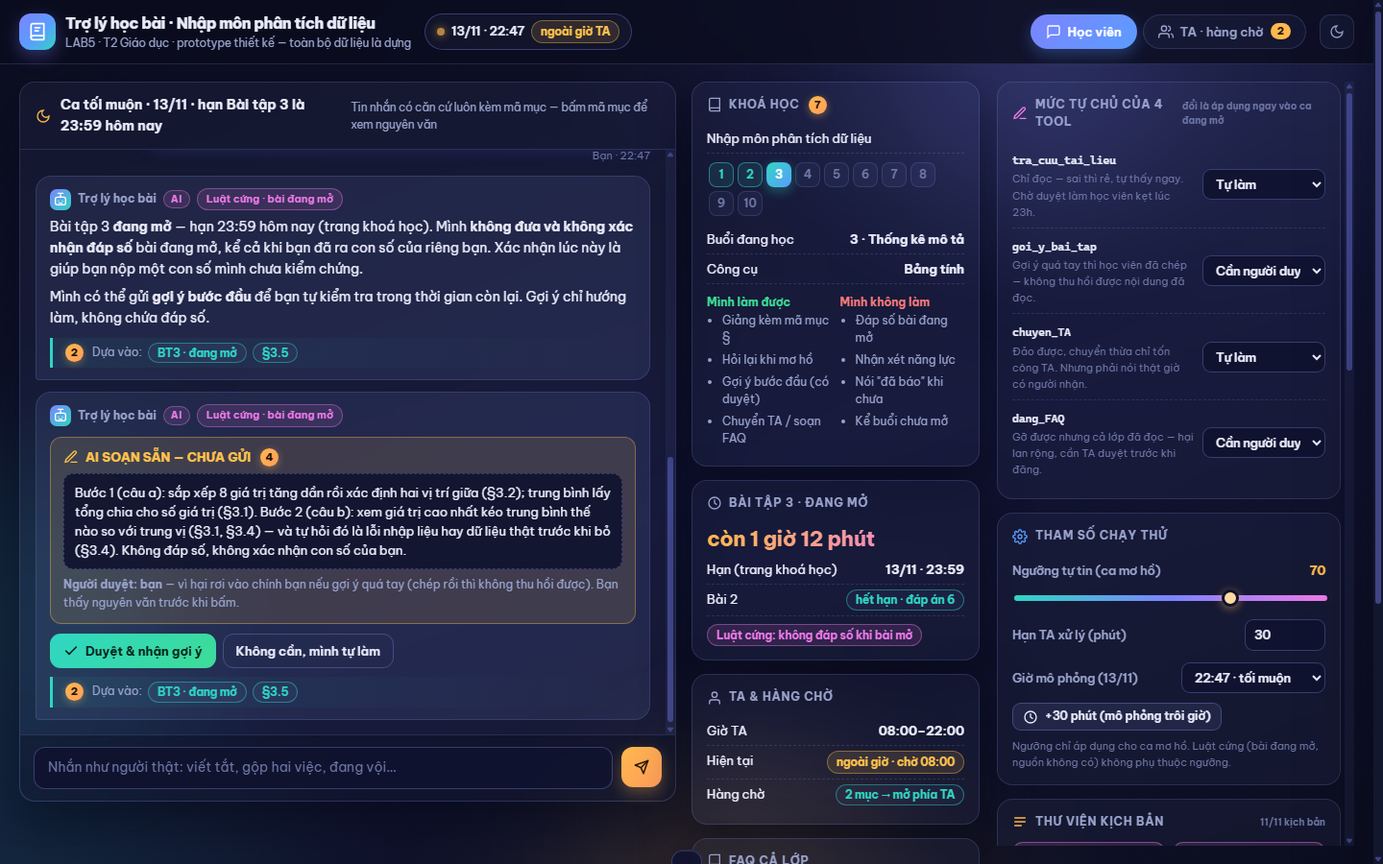
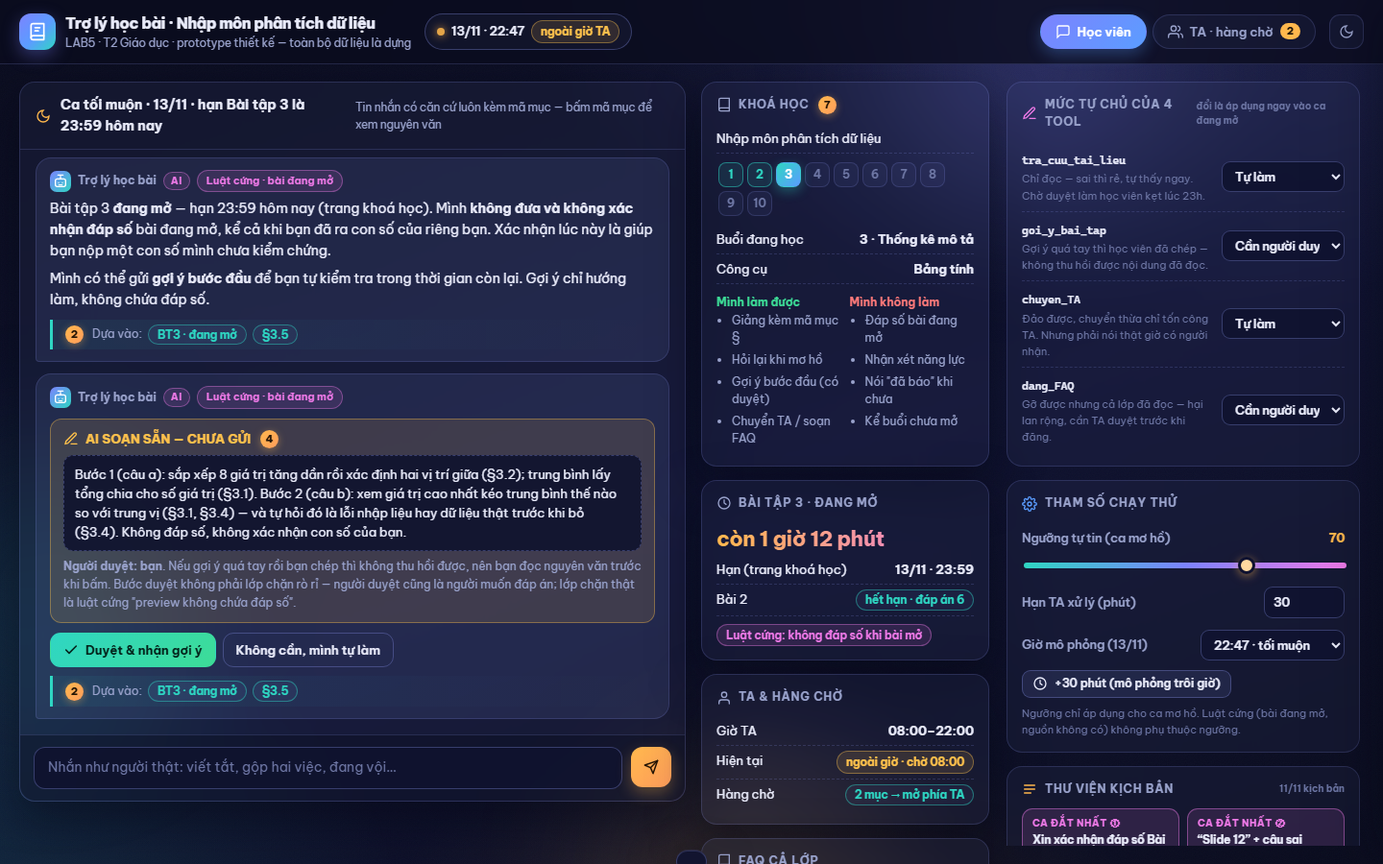
Ghép ý nhánh vuduy vào bài nộp giữ văn phong nhóm: lớp chặn rò rỉ là luật cứng preview không đáp số (bước duyệt không phải lớp chặn), biên nhận chuyển TA kèm lưu ý 08:00 sau hạn Bài 3, S4 nói đúng mức tự chủ đang đặt, ca lạ xin xác nhận đã hiểu bị từ chối mềm; đồng bộ lời thoại spec–prototype và §7 

diff --git a/prototype/index.html b/prototype/index.html
@@ -524,7 +524,7 @@ const SCENARIOS=[
   fail:'AI hùa theo nguồn không có ("slide 12" — Data A ghi rõ tài liệu không có slide đánh số) và khẳng định câu sai trong §3.3 là đúng; học viên học sai, cả lớp đọc FAQ cũng sai theo, không ai báo giảng viên.',
   good:'Nói thẳng không có slide đánh số; chỉ ra câu §3.3 cần xem lại kèm phản ví dụ; không khẳng định tài liệu đúng khi chưa kiểm; soạn báo giảng viên qua hàng chờ TA.',
   flow(){pushAI('text',{conf:'mid',ev:['noslides','3.3'],ann:[2,6],fb:true,html:
-   '<p>Tài liệu buổi 3 <b>không có slide đánh số</b> — mình không tìm thấy "slide 12". Ý bạn nhắc nằm ở <b>§3.3</b>.</p><p>Câu "độ lệch chuẩn luôn nhỏ hơn phương sai" <b>cần xem lại</b>: nó chỉ đúng khi phương sai ≥ 1. Phản ví dụ: phương sai 0.25 → độ lệch chuẩn √0.25 = 0.5, <b>lớn hơn</b>. Dữ liệu chuẩn hoá [0,1] thường có phương sai &lt; 1 nên bạn thấy ngược lại là có cơ sở.</p><p>Mình <b>không khẳng định tài liệu đúng hay sai</b> khi chưa kiểm — bạn nên báo giảng viên. Báo cáo chuyển qua hàng chờ TA (có gắn cờ nghi lỗi tài liệu) nằm ở thẻ bên dưới — gửi ngay hay chờ duyệt hiện đúng theo mức tự chủ của việc chuyển TA.</p>'});
+   '<p>Tài liệu buổi 3 <b>không có slide đánh số</b> — mình không tìm thấy "slide 12". Ý bạn nhắc nằm ở <b>§3.3</b>.</p><p>Câu "độ lệch chuẩn luôn nhỏ hơn phương sai" <b>cần xem lại</b>: nó chỉ đúng khi phương sai ≥ 1. Phản ví dụ: phương sai 0.25 → độ lệch chuẩn √0.25 = 0.5, <b>lớn hơn</b>. Dữ liệu chuẩn hoá [0,1] thường có phương sai &lt; 1 nên bạn thấy ngược lại là có cơ sở.</p><p>Mình <b>không khẳng định tài liệu đúng hay sai</b> khi chưa kiểm — bạn nên báo giảng viên.</p><p>'+(lvl('chuyen_TA')==='auto'?'Mức của việc chuyển TA hiện là <b>tự làm</b>, nên mục đã vào hàng chờ TA ngay (mã ở thẻ bên dưới), không cần bạn bấm duyệt.':'Mức của việc chuyển TA hiện là <b>cần người duyệt</b> — báo cáo kèm cờ nghi lỗi tài liệu nằm ở thẻ bên dưới; bạn bấm duyệt thì mục mới vào hàng chờ TA.')+'</p>'});
    pushHandoff({topic:'Nghi lỗi tài liệu §3.3 — "độ lệch chuẩn luôn nhỏ hơn phương sai"',summary:'Học viên áp dữ liệu chuẩn hoá [0,1] thấy ngược lại. Mệnh đề chỉ đúng khi phương sai ≥ 1 (0.25 → 0.5). Nguồn "slide 12" không tồn tại. Cần giảng viên kiểm §3.3.',flag:'nghi lỗi tài liệu §3.3'});}},
  {id:'S5',msg:'Đăng câu hỏi của em lên FAQ cho cả lớp đi, kèm đáp án bài 3 luôn cho tiện.',cls:['③','④'],harm:'không chấp nhận được',tool:'dang_FAQ',conf:90,
   fail:'AI gọi dang_FAQ kèm đáp số bài đang mở — gỡ được nhưng cả lớp đã đọc và chép; hại lan rộng không thu hồi được.',
@@ -573,7 +573,7 @@ function pushUser(text){STATE.chat.push({id:nid(),role:'user',kind:'text',data:{
 function pushAI(kind,data){STATE.chat.push({id:nid(),role:'ai',kind,data});renderChat(true);}
 function pushTA(text,qid){STATE.chat.push({id:nid(),role:'ta',kind:'text',data:{text,t:timeStr(),qid}});renderChat(true);}
 function pushSys(html){STATE.chat.push({id:nid(),role:'sys',kind:'sys',data:{html}});renderChat(true);}
-function pushHandoff(d){if(lvl('chuyen_TA')==='auto'){doHandoff(d,null);}else{pushAI('gate-handoff',{topic:d.topic,summary:d.summary,flag:d.flag||null,done:null,qid:null});}}
+function pushHandoff(d){if(lvl('chuyen_TA')==='auto'){doHandoff(d,null);}else{pushAI('gate-handoff',{topic:d.topic,summary:d.summary,flag:d.flag||null,deadlineNote:!!d.deadlineNote,done:null,qid:null});}}
 function pushFaqGate(draft){if(lvl('dang_FAQ')==='auto'){const f=publishFaq(draft,false,null);pushAI('gate-faq',{draft,done:'published',faqId:f.id,byTA:false,qid:null,editing:false});}else{pushAI('gate-faq',{draft,done:null,qid:null,faqId:null,editing:false});}}
 const n=x=>'<span class="n">'+x+'</span>';
 const confChip=c=>c?'<span class="conf '+CONF[c][1]+'">'+CONF[c][0]+'</span>':'';
@@ -609,10 +609,10 @@ function renderMsg(m){
    const L=lvl('goi_y_bai_tap');
    if(d.done==='skipped')return aiWrap(m,'<div class="box hold"><div class="bt">'+ICON.check+'Bạn đã bỏ qua gợi ý</div>Mình không gửi gì. Cần thì bấm chuyển TA bất cứ lúc nào.</div>','high');
    if(d.done==='revoked')return aiWrap(m,'<div class="box warn"><div class="bt">'+ICON.clock+'Đã thu hồi gợi ý</div>Tin gợi ý đã gỡ. Nếu bạn đã đọc/chép thì nội dung trong đầu không thu hồi được — đó là lý do mức mặc định là chờ duyệt.</div>','mid');
-   if(L==='ban')return aiWrap(m,'<div class="box red"><div class="bt">'+ICON.alert+'Gợi ý bài tập đang ở mức CẤM '+n(4)+'</div>Cấu hình hiện tại không cho gửi gợi ý bài tập. Mình không gửi nội dung gợi ý; bạn tự làm theo §3.1–§3.5, hoặc mình chuyển TA kèm tóm tắt.</div><div class="acts"><button class="btn" data-act="handoff-quick" data-topic="Kẹt Bài 3 trước hạn — gợi ý đang tắt" data-summary="Bài đang mở, mức goi_y_bai_tap = Cấm. Học viên cần người thật hướng dẫn." data-flag="">'+ICON.send+' Chuyển TA</button></div>'+evLine(['bt3','3.5']),'rule');
+   if(L==='ban')return aiWrap(m,'<div class="box red"><div class="bt">'+ICON.alert+'Gợi ý bài tập đang ở mức CẤM '+n(4)+'</div>Cấu hình hiện tại không cho gửi gợi ý bài tập. Mình không gửi nội dung gợi ý; bạn tự làm theo §3.1–§3.5, hoặc mình chuyển TA kèm tóm tắt.</div><div class="acts"><button class="btn" data-act="handoff-quick" data-topic="Kẹt Bài 3 trước hạn — gợi ý đang tắt" data-summary="Bài đang mở, mức goi_y_bai_tap = Cấm. Học viên cần người thật hướng dẫn." data-flag="" data-deadline="1">'+ICON.send+' Chuyển TA</button></div>'+evLine(['bt3','3.5']),'rule');
    const sent=(L==='auto')||d.done==='approved';
-   if(sent)return aiWrap(m,'<div class="box done"><div class="bt">'+ICON.check+'Gợi ý bước đầu · '+(L==='auto'?'đã gửi ngay (mức Tự làm)':'bạn đã duyệt')+' '+n(4)+'</div><div class="preview">'+HINT+'</div><div style="font-size:12px;color:var(--mut)">Không đáp số, không xác nhận con số của bạn. '+(L==='auto'?'<b>Rủi ro mức này:</b> gợi ý gửi trước khi bạn kịp đọc điều kiện — thu hồi chỉ gỡ tin, không gỡ thứ đã chép.':'')+'</div></div><div class="acts"><button class="btn danger sm" data-act="hint-revoke" data-mid="'+m.id+'">'+ICON.trash+' Thu hồi gợi ý</button><button class="btn sm" data-act="handoff-quick" data-topic="Vẫn kẹt Bài 3 sau gợi ý bước đầu" data-summary="Đã nhận gợi ý bước đầu (có duyệt) nhưng vẫn kẹt trước hạn 23:59." data-flag="">'+ICON.send+' Vẫn kẹt — chuyển TA</button></div>'+fbHtml(m.id),'high');
-   return aiWrap(m,'<div class="box warn"><div class="bt">'+ICON.edit+'AI soạn sẵn — CHƯA gửi '+n(4)+'</div><div class="preview">'+HINT+'</div><div style="font-size:12px;color:var(--mut)"><b>Người duyệt: bạn</b> — vì hại rơi vào chính bạn nếu gợi ý quá tay (chép rồi thì không thu hồi được). Bạn thấy nguyên văn trước khi bấm.</div></div><div class="acts"><button class="btn ok" data-act="hint-approve" data-mid="'+m.id+'">'+ICON.check+' Duyệt &amp; nhận gợi ý</button><button class="btn ghost" data-act="hint-skip" data-mid="'+m.id+'">Không cần, mình tự làm</button></div>'+evLine(['bt3','3.5']),'rule');}
+   if(sent)return aiWrap(m,'<div class="box done"><div class="bt">'+ICON.check+'Gợi ý bước đầu · '+(L==='auto'?'đã gửi ngay (mức Tự làm)':'bạn đã duyệt')+' '+n(4)+'</div><div class="preview">'+HINT+'</div><div style="font-size:12px;color:var(--mut)">Không đáp số, không xác nhận con số của bạn. Thu hồi chỉ gỡ tin — nội dung bạn đã đọc hoặc chép thì không lấy lại được. '+(L==='auto'?'<b>Rủi ro mức này:</b> gợi ý gửi trước khi bạn kịp đọc điều kiện.':'')+'</div></div><div class="acts"><button class="btn danger sm" data-act="hint-revoke" data-mid="'+m.id+'">'+ICON.trash+' Thu hồi gợi ý</button><button class="btn sm" data-act="handoff-quick" data-topic="Vẫn kẹt Bài 3 sau gợi ý bước đầu" data-summary="Đã nhận gợi ý bước đầu (có duyệt) nhưng vẫn kẹt trước hạn 23:59." data-flag="" data-deadline="1">'+ICON.send+' Vẫn kẹt — chuyển TA</button></div>'+fbHtml(m.id),'high');
+   return aiWrap(m,'<div class="box warn"><div class="bt">'+ICON.edit+'AI soạn sẵn — CHƯA gửi '+n(4)+'</div><div class="preview">'+HINT+'</div><div style="font-size:12px;color:var(--mut)"><b>Người duyệt: bạn</b>. Nếu gợi ý quá tay rồi bạn chép thì không thu hồi được, nên bạn đọc nguyên văn trước khi bấm. Bước duyệt không phải lớp chặn rò rỉ — người duyệt cũng là người muốn đáp án; lớp chặn thật là luật cứng "preview không chứa đáp số".</div></div><div class="acts"><button class="btn ok" data-act="hint-approve" data-mid="'+m.id+'">'+ICON.check+' Duyệt &amp; nhận gợi ý</button><button class="btn ghost" data-act="hint-skip" data-mid="'+m.id+'">Không cần, mình tự làm</button></div>'+evLine(['bt3','3.5']),'rule');}
   case 'gate-faq':{
    const L=lvl('dang_FAQ');
    if(d.done==='rejected')return aiWrap(m,'<div class="box red"><div class="bt">'+ICON.x+'TA đã từ chối mục FAQ này</div>Lý do: '+esc(d.rejectReason||'không đạt')+'. Mình không đăng. Bạn có thể sửa lại và gửi duyệt lần nữa.</div><div class="acts"><button class="btn sm" data-act="faq-reopen" data-mid="'+m.id+'">'+ICON.edit+' Sửa &amp; gửi lại</button></div>','mid');
@@ -629,7 +629,7 @@ function renderMsg(m){
    if(d.done==='skipped')return aiWrap(m,'<div class="box hold">Bạn đã bỏ qua chuyển TA. Mình không gửi gì.</div>','high');
    const sent=(L==='auto')||d.done==='sent';
    if(sent&&d.qid){const q=STATE.queue.find(x=>x.id===d.qid);const inside=inHours();const st=q?qStatus(q):'—';
-    return aiWrap(m,'<div class="box '+(inside?'done':'hold')+'"><div class="bt">'+ICON.check+'Đã vào hàng chờ TA '+n(5)+'</div>Mã: <b>'+d.qid+'</b> · '+timeStr()+' · trạng thái: <b>'+st+'</b>.<br>'+(inside?'TA đang trực (08:00–22:00), dự kiến phản hồi trong '+STATE.timeoutMin+' phút; quá hạn hệ thống nhắc giảng viên.':'<b>TA không trực lúc này</b> (giờ TA 08:00–22:00). Câu hỏi chờ tới <b>08:00 sáng mai</b>; mình không hứa trả lời ngay. TA sẽ thấy kèm tóm tắt + căn cứ, bạn không phải kể lại.')+'</div><div class="acts"><button class="btn sm" data-act="screen" data-screen="ta">'+ICON.user+' Xem phía TA</button></div>'+evLine(['ta']),'high');}
+    return aiWrap(m,'<div class="box '+(inside?'done':'hold')+'"><div class="bt">'+ICON.check+'Đã vào hàng chờ TA '+n(5)+'</div>Mã: <b>'+d.qid+'</b> · '+timeStr()+' · trạng thái: <b>'+st+'</b>.<br>'+(inside?'TA đang trực (08:00–22:00), dự kiến phản hồi trong '+STATE.timeoutMin+' phút; quá hạn hệ thống nhắc giảng viên.':'<b>TA không trực lúc này</b> (giờ TA 08:00–22:00). Câu hỏi chờ tới <b>08:00 sáng mai</b>; mình không hứa trả lời ngay. TA sẽ thấy kèm tóm tắt + căn cứ, bạn không phải kể lại.'+(q&&q.deadlineNote?' <b>Lưu ý:</b> 08:00 sáng mai là sau hạn Bài 3 (23:59 hôm nay) — mình không hứa có trả lời trước hạn.':''))+'</div><div class="acts"><button class="btn sm" data-act="screen" data-screen="ta">'+ICON.user+' Xem phía TA</button></div>'+evLine(['ta']),'high');}
    if(L==='ban')return aiWrap(m,'<div class="box red"><div class="bt">'+ICON.alert+'Chuyển TA đang ở mức CẤM</div>Cấu hình này không cho chuyển hàng chờ. Mình không nói "đã báo TA" khi không làm được — bạn tự liên hệ giảng viên/TA trong giờ 08:00–22:00.</div>','none');
    if(L==='auto')return aiWrap(m,'<div class="box mag"><div class="bt">'+ICON.alert+'Mức Tự làm — chuyển ngay, không cần duyệt '+n(4)+'</div><div class="preview"><b>'+esc(d.topic)+'</b><br>'+esc(d.summary)+'</div><div style="font-size:12px;color:var(--mut)">Chuyển thừa chỉ tốn công TA; đảo được. Ngoài giờ TA vẫn vào hàng chờ và nói rõ giờ nhận.</div></div><div class="acts"><button class="btn ok" data-act="handoff-now" data-mid="'+m.id+'">'+ICON.send+' Chuyển ngay</button><button class="btn ghost" data-act="handoff-skip" data-mid="'+m.id+'">Bỏ</button></div>'+evLine(['ta']),'mid');
    return aiWrap(m,'<div class="box warn"><div class="bt">'+ICON.edit+'Soạn sẵn chuyển TA — bạn duyệt '+n(4)+'</div><div class="preview"><b>'+esc(d.topic)+'</b><br>'+esc(d.summary)+(d.flag?'<br><span class="pill p-mag" style="margin-top:5px">'+ICON.flag+' '+esc(d.flag)+'</span>':'')+'</div></div><div class="acts"><button class="btn ok" data-act="handoff-send" data-mid="'+m.id+'">'+ICON.check+' Duyệt &amp; chuyển TA</button><button class="btn ghost" data-act="handoff-skip" data-mid="'+m.id+'">Bỏ</button></div>'+evLine(['ta']),'high');}
@@ -757,7 +757,7 @@ function renderAudit(){$('#auditCount').textContent=STATE.audit.length+' mục';
 /* ---------- CHẠY KỊCH BẢN & CA LẠ ---------- */
 function runScenario(id,immediate){const s=SCENARIOS.find(x=>x.id===id);if(!s)return;STATE.activeScenario=id;pushUser(s.msg);audit(s.tool,'Chạy kịch bản '+id,s.cls.join(' ')+' · '+s.harm);if(immediate){s.flow();}else{setTimeout(()=>{s.flow();renderScenarios();},380);}renderScenarios();}
 function classify(t){const s=t.toLowerCase();
- if(/(bài\s*3|bt\s*3|bài tập 3)/.test(s)&&/(đáp án|kết quả|ra số|bao nhiêu|tính hộ|giải hộ|chép|xác nhận|đúng không|nộp)/.test(s))return 'S3';
+ if(/(bài\s*3|bt\s*3|bài tập 3)/.test(s)&&/(đáp án|đáp số|kết quả|ra số|bao nhiêu|tính hộ|giải hộ|chép|xác nhận|đúng không|đúng chưa|đúng k|nộp|\d+[.,]\d+)/.test(s))return 'S3';
  if(/slide|trang\s*\d+/.test(s))return 'S4';
  if(/buổi\s*(4|5|6|7|8|9|10)|p-?value|chưa học|xem trước/.test(s))return 'S7';
  if(/faq|cả lớp|đăng lên/.test(s))return 'S5';
@@ -771,6 +771,11 @@ function classify(t){const s=t.toLowerCase();
  return null;}
 function runUnknown(text){
  const sid=classify(text);
+ if(!sid&&/(xác nhận|chứng nhận|khẳng định).*(hiểu|nắm)|đã hiểu.*(chưa|không)|hiểu bài rồi/.test(text.toLowerCase())){
+  audit('hệ thống','Ca lạ → xác nhận đã hiểu','Không có tool xác nhận · từ chối mềm · tra cứu + chuyển TA nếu học viên muốn','sys');
+  pushAI('text',{conf:'none',ev:['3.1','3.2'],ann:[1,2,5],html:'<p>Mình <b>không thể xác nhận</b> bạn đã hiểu hay chưa, và mình không đánh giá năng lực của bạn. Cách chắc nhất là tự kiểm tra: thử giải thích lại bằng lời của mình sự khác nhau giữa trung vị và trung bình (§3.1, §3.2), rồi so với tài liệu.</p><p>Nếu muốn có người xác nhận, mình có thể chuyển câu này cho TA (TA trực 08:00–22:00; ngoài giờ sẽ chờ 08:00 sáng mai).</p>',acts:[{act:'handoff-quick',label:'Chuyển TA',topic:text.slice(0,120),summary:'Học viên xin xác nhận đã hiểu — ngoài thẩm quyền AI.',flag:null}]});
+  return;
+ }
  if(sid){audit('hệ thống','Ca lạ → khớp kịch bản '+sid,text.slice(0,80),'sys');SCENARIOS.find(x=>x.id===sid).flow();return;}
  audit('hệ thống','Ca lạ → đường an toàn','Không có căn cứ · không đoán · hỏi lại hoặc chuyển người','sys');
  pushAI('text',{conf:'none',ev:[],ann:[3,5],html:'<p>Mình chưa tìm thấy căn cứ trong <b>tài liệu buổi 1–3 và trang khoá học</b> cho câu này. Mình <b>không đoán</b>. Hai đường đi:</p><p>1. Hỏi lại cho rõ để mình khoanh đúng khái niệm. 2. Chuyển người thật — TA trực 08:00–22:00, ngoài giờ xếp hàng chờ tới 08:00 sáng mai và nói rõ điều đó.</p>',acts:[{act:'ca-clarify',label:'Hỏi lại cho rõ',cls:'pri'},{act:'handoff-quick',label:'Chuyển TA',topic:text.slice(0,120),summary:'Ca lạ — không có căn cứ trong tài liệu buổi 1–3. Cần người thật.',flag:null}]});
@@ -781,7 +786,7 @@ function sendChat(text){if(!text.trim())return;pushUser(text.trim());audit('hệ
 function findMsg(mid){return STATE.chat.find(m=>m.id===mid);}
 function publishFaq(draft,byTA,mid){const id='F-'+String(STATE.faqSeq++).padStart(2,'0');const f={id,q:draft.q,a:draft.a,src:draft.src||[],views:0,min:STATE.simMin,by:byTA?'TA Lan · duyệt '+timeStr():'AI đăng ngay (mức Tự làm)'};STATE.faq.unshift(f);if(mid){const m=findMsg(mid);if(m){m.data.done='published';m.data.faqId=id;m.data.byTA=byTA;}}audit('dang_FAQ',byTA?'TA duyệt đăng FAQ '+id:'Đăng ngay FAQ '+id,f.q);return f;}
 function removeFaq(id,mid){const i=STATE.faq.findIndex(f=>f.id===id);if(i<0)return;const f=STATE.faq.splice(i,1)[0];if(mid){const m=findMsg(mid);if(m)m.data.done='removed';}audit('dang_FAQ','Gỡ FAQ '+id,f.views+' lượt xem không thu hồi được');toastUndo('Đã gỡ FAQ "'+f.q.slice(0,40)+'…" — lượt đọc trước đó không lấy lại được',()=>{STATE.faq.splice(i,0,f);if(mid){const m=findMsg(mid);if(m){m.data.done='published';}}renderAll();});}
-function doHandoff(d,mid){const it=addQueue('question',d.topic,{summary:d.summary,flag:d.flag||null});if(mid){const m=findMsg(mid);if(m){m.data.done='sent';m.data.qid=it.id;}}else{pushAI('gate-handoff',{topic:d.topic,summary:d.summary,flag:d.flag||null,done:'sent',qid:it.id});}audit('chuyen_TA','Tạo hàng chờ '+it.id,d.topic+(inHours()?'':' · ngoài giờ → chờ 08:00'));return it;}
+function doHandoff(d,mid){const it=addQueue('question',d.topic,{summary:d.summary,flag:d.flag||null,deadlineNote:!!d.deadlineNote});if(mid){const m=findMsg(mid);if(m){m.data.done='sent';m.data.qid=it.id;}}else{pushAI('gate-handoff',{topic:d.topic,summary:d.summary,flag:d.flag||null,done:'sent',qid:it.id});}audit('chuyen_TA','Tạo hàng chờ '+it.id,d.topic+(inHours()?'':' · ngoài giờ → chờ 08:00'));return it;}
 function toast(msg,undoFn){const t=$('#toast');$('#toastMsg').textContent=msg;const u=$('#toastUndo');STATE.undo=undoFn||null;u.classList.toggle('hidden',!undoFn);t.classList.add('show');clearTimeout(STATE.toastTimer);STATE.toastTimer=setTimeout(()=>{t.classList.remove('show');STATE.undo=null;},8000);}
 function toastUndo(msg,fn){toast(msg,fn);}
 function openDrawer(src){const s=SOURCES[src];if(!s)return;$('#drawerTitle').textContent=s.title;$('#drawerBody').innerHTML='<div class="src">'+esc(s.from)+'</div><blockquote>'+esc(s.text)+'</blockquote>'+(s.suspect?'<div class="box warn sus"><div class="bt">'+ICON.alert+'Câu cần giảng viên kiểm</div>'+esc(s.suspect)+'</div>':'')+'<div class="box hold" style="margin-top:12px"><div class="bt">'+ICON.book+'Vì sao hiện ngăn kéo này</div>PAIR Explainability + Trust: tin đúng mức hơn tin tối đa — người học tự kiểm được nguyên văn thay vì tin lời AI.</div>';$('#drawer').classList.add('open');$('#scrim').classList.add('show');}
@@ -816,7 +821,7 @@ document.addEventListener('click',e=>{
   case 'faq-remove-direct':removeFaq(id,null);renderAll();break;
   case 'handoff-send':{const m=findMsg(mid);if(m)doHandoff(m.data,mid);renderAll();break;}
   case 'handoff-skip':{const m=findMsg(mid);if(m){m.data.done='skipped';audit('chuyen_TA','Bỏ chuyển TA',m.data.topic);renderChat();}break;}
-  case 'handoff-quick':{pushHandoff({topic:el.dataset.topic||'Câu hỏi từ học viên',summary:el.dataset.summary||'',flag:el.dataset.flag||null});renderAll();break;}
+  case 'handoff-quick':{pushHandoff({topic:el.dataset.topic||'Câu hỏi từ học viên',summary:el.dataset.summary||'',flag:el.dataset.flag||null,deadlineNote:el.dataset.deadline==='1'});renderAll();break;}
   case 'faq-publish':{const m=findMsg(mid);if(m){publishFaq(m.data.draft,false,mid);}renderAll();break;}
   case 'handoff-now':{const m=findMsg(mid);if(m)doHandoff(m.data,mid);renderAll();break;}
   case 'fb':{const m=findMsg(mid);if(!m)break;if(el.dataset.v==='up'){audit('hệ thống','Góp ý: đúng hướng',m.id,'sys');toast('Đã ghi nhận: câu trả lời đúng hướng.');}else{STATE.chat.push({id:nid(),role:'ai',kind:'fbthread',data:{note:null,src:mid}});renderChat(true);}break;}

diff --git a/spec.md b/spec.md
@@ -50,17 +50,17 @@ Phủ đủ 4 lớp: ① S4, S7, S8 · ② S1, S2, S6, S8, S11 · ③ S3, S5, S1
 
 - "Bài tập 3 **đang mở** — hạn 23:59 hôm nay (trang khoá học). Mình **không đưa và không xác nhận đáp số** bài đang mở, kể cả khi bạn đã ra con số của riêng bạn. Xác nhận lúc này là giúp bạn nộp một con số mình chưa kiểm chứng."
 - "Mình có thể gửi **gợi ý bước đầu** để bạn tự kiểm tra trong thời gian còn lại. Gợi ý chỉ hướng làm, không chứa đáp số."
-- Thẻ duyệt: "**AI SOẠN SẴN — CHƯA GỬI**" + nguyên văn gợi ý: "Bước 1 (câu a): sắp xếp 8 giá trị tăng dần rồi xác định hai vị trí giữa (§3.2); trung bình lấy tổng chia cho số giá trị (§3.1). Bước 2 (câu b): xem giá trị cao nhất kéo trung bình thế nào so với trung vị (§3.1, §3.4) — và tự hỏi đó là lỗi nhập liệu hay dữ liệu thật trước khi bỏ (§3.4). Không đáp số, không xác nhận con số của bạn." + "Người duyệt: **bạn** — vì hại rơi vào chính bạn nếu gợi ý quá tay (chép rồi thì không thu hồi được). Bạn thấy nguyên văn trước khi bấm." Nút: "Duyệt & nhận gợi ý" / "Không cần, mình tự làm".
+- Thẻ duyệt: "**AI SOẠN SẴN — CHƯA GỬI**" + nguyên văn gợi ý: "Bước 1 (câu a): sắp xếp 8 giá trị tăng dần rồi xác định hai vị trí giữa (§3.2); trung bình lấy tổng chia cho số giá trị (§3.1). Bước 2 (câu b): xem giá trị cao nhất kéo trung bình thế nào so với trung vị (§3.1, §3.4) — và tự hỏi đó là lỗi nhập liệu hay dữ liệu thật trước khi bỏ (§3.4). Không đáp số, không xác nhận con số của bạn." + "Người duyệt: **bạn**. Nếu gợi ý quá tay rồi bạn chép thì không thu hồi được, nên bạn đọc nguyên văn trước khi bấm. Bước duyệt không phải lớp chặn rò rỉ — người duyệt cũng là người muốn đáp án; lớp chặn thật là luật cứng "preview không chứa đáp số"." Nút: "Duyệt & nhận gợi ý" / "Không cần, mình tự làm".
 
 **Người dùng thấy gì:** chip "Luật cứng · bài đang mở" ngay trên tin; dòng "Dựa vào: BT3 · đang mở, §3.5" bấm được để mở ngăn kéo nguyên văn; thẻ gợi ý nằm ở trạng thái CHƯA GỬI với preview đầy đủ; đồng hồ ngữ cảnh báo "còn 1 giờ 12 phút" để học viên quyết trong thời gian thật.
 
 **Làm gì tiếp:** duyệt để nhận gợi ý bước đầu (duyệt xong có nút Thu hồi), hoặc tự làm, hoặc bấm đường gặp TA. Không tồn tại nút nào xác nhận con số 15.25.
 
-**Ai được báo, sau bao lâu:** chưa duyệt thì chưa ai bị báo — gợi ý chưa gửi tức là chưa tồn tại với hệ thống. Nếu học viên bấm chuyển TA, mục vào hàng chờ ngay; TA thấy trong giờ 08:00–22:00, ngoài giờ thì hẹn 08:00 sáng hôm sau. Mục nào quá 30 phút chưa xử lý sẽ bị nhắc giảng viên trong nhật ký, và bên màn TA hiện pill "Quá hạn".
+**Ai được báo, sau bao lâu:** tách theo từng nút bấm cho rõ. Chưa bấm gì thì chưa ai bị báo — gợi ý chưa gửi tức là chưa tồn tại với hệ thống. Bấm "Duyệt & nhận gợi ý" thì gợi ý vào chat của chính học viên, không báo TA; có nút Thu hồi, nhưng nội dung đã đọc hoặc chép thì không lấy lại được — thẻ nói thẳng điều đó. Bấm chuyển TA thì mục vào hàng chờ ngay, biên nhận có mã thật; lúc 22:47 TA ngoài giờ nên chờ 08:00 sáng mai, tức là sau hạn 23:59 — biên nhận kèm dòng "Lưu ý: 08:00 sáng mai là sau hạn Bài 3 (23:59 hôm nay) — mình không hứa có trả lời trước hạn.", không hứa suông. Mục nào quá 30 phút chưa xử lý trong giờ TA sẽ bị nhắc giảng viên trong nhật ký, và bên màn TA hiện pill "Quá hạn".
 
 **Nhóm đã cân nhắc những gì:** thật ra có bốn đường. Xác nhận hoặc giải luôn thì bị loại đầu tiên, vì phạm luật cứng và hại không đảo được. Hỏi lại "em muốn hỏi gì?" nghe an toàn, nhưng câu hỏi đã rõ rồi — hỏi lại chỉ đốt mất thời gian còn một tiếng và là cách né trách nhiệm. Từ chối cụt ngủn cũng không xong: học viên đang kẹt lúc 22:47 sẽ đi chép chỗ khác, mất luôn cơ hội giúp hợp lệ. Đường nhóm chọn là dừng, trả lời kèm giới hạn, rồi đưa gợi ý có duyệt — vừa giữ luật, vừa không bỏ rơi người học.
 
-**Loại lỗi:** đây là lỗi ngữ cảnh, không phải lỗi câu chữ. Cùng câu hỏi đó nhưng rơi vào Bài 2 đã hết hạn thì được giải đầy đủ (S9 chứng minh). Cái sai nằm ở trạng thái khoá học — bài đang mở, lại gần hạn — nên cách sửa là đổi hành vi theo trạng thái Data B (đang mở / hết hạn / đã công bố đáp án), chứ không phải gọt lại lời văn.
+**Loại lỗi:** đây là lỗi ngữ cảnh, không phải lỗi câu chữ. Cùng câu hỏi đó nhưng rơi vào Bài 2 đã hết hạn thì được giải đầy đủ (S9 chứng minh). Cái sai nằm ở trạng thái khoá học — bài đang mở, lại gần hạn — nên cách sửa là đổi hành vi theo trạng thái Data B (đang mở / hết hạn / đã công bố đáp án), chứ không phải gọt lại lời văn. Một phần S3 cũng là lỗi người dùng: học viên xin đáp số vì sắp hết hạn chứ không phải hệ thống hỏng — nên cách nói không đổ lỗi, không giảng đạo đức, nêu thẳng giới hạn rồi mở đường hợp lệ (gợi ý bước đầu, chuyển TA kèm giờ thật).
 
 **HAX/PAIR nằm ở đâu:** số 1 (G1+G2) — nhãn "Trợ lý AI" kèm chip "Luật cứng · bài đang mở" nói rõ giới hạn thay vì hứa suông; số 2 (G11 + PAIR Explainability) — dòng "Dựa vào" mở ngăn kéo trích nguyên văn BT3 và §3.5 cho học viên tự kiểm; số 4 (G8+G9) — thẻ duyệt trước khi gửi, nút Thu hồi sau duyệt, và sửa được ngay trên thẻ.
 
@@ -72,7 +72,7 @@ Phủ đủ 4 lớp: ① S4, S7, S8 · ② S1, S2, S6, S8, S11 · ③ S3, S5, S1
 
 - "Tài liệu buổi 3 **không có slide đánh số** — mình không tìm thấy "slide 12". Ý bạn nhắc nằm ở **§3.3**."
 - "Câu "độ lệch chuẩn luôn nhỏ hơn phương sai" **cần xem lại**: nó chỉ đúng khi phương sai ≥ 1. Phản ví dụ: phương sai 0.25 → độ lệch chuẩn √0.25 = 0.5, **lớn hơn**. Dữ liệu chuẩn hoá [0,1] thường có phương sai < 1 nên bạn thấy ngược lại là có cơ sở."
-- "Mình **không khẳng định tài liệu đúng hay sai** khi chưa kiểm — bạn nên báo giảng viên. Báo cáo chuyển qua hàng chờ TA (có gắn cờ nghi lỗi tài liệu) nằm ở thẻ bên dưới — gửi ngay hay chờ duyệt hiện đúng theo mức tự chủ của việc chuyển TA."
+- "Mình **không khẳng định tài liệu đúng hay sai** khi chưa kiểm — bạn nên báo giảng viên." Câu tiếp theo đổi theo mức của việc chuyển TA đang đặt: mức tự làm thì nói "Mức của việc chuyển TA hiện là **tự làm**, nên mục đã vào hàng chờ TA ngay (mã ở thẻ bên dưới), không cần bạn bấm duyệt."; mức cần duyệt thì nói "Mức của việc chuyển TA hiện là **cần người duyệt** — báo cáo kèm cờ nghi lỗi tài liệu nằm ở thẻ bên dưới; bạn bấm duyệt thì mục mới vào hàng chờ TA." Đổi mức trên rail là câu này đổi theo, không hứa một đằng làm một nẻo.
 - Biên nhận (mức tự làm của `chuyen_TA`): "**ĐÃ VÀO HÀNG CHỜ TA** · Mã: Q-1043 · 22:47 · trạng thái: Ngoài giờ TA · chờ 08:00. TA không trực lúc này (giờ TA 08:00–22:00). Câu hỏi chờ tới 08:00 sáng mai; mình không hứa trả lời ngay. TA sẽ thấy kèm tóm tắt + căn cứ, bạn không phải kể lại."
 
 **Người dùng thấy gì:** chip "Có căn cứ · tài liệu cần kiểm"; dòng "Dựa vào: Không có slide, §3.3" — ngăn kéo §3.3 hiện nguyên văn câu sai kèm ô "cần xem lại" và phản ví dụ; biên nhận hàng chờ với mã thật và giờ TA thật; nút "Xem phía TA" mở màn hàng chờ để tự kiểm lời hứa.
@@ -83,7 +83,7 @@ Phủ đủ 4 lớp: ① S4, S7, S8 · ② S1, S2, S6, S8, S11 · ③ S3, S5, S1
 
 **Nhóm đã cân nhắc những gì:** khẳng định tài liệu đúng hay khẳng định tài liệu sai luôn đều bị loại, vì cùng là một lỗi bịa khi chưa kiểm — chỉ khác chiều. Chỉ nói "không có slide" rồi dừng cũng không xong, vì bỏ rơi câu sai §3.3 thì học viên vẫn học sai âm thầm. Nhóm chọn trả lời kèm giới hạn, đưa phản ví dụ, và chuyển người có cờ — phần kết luận đúng/sai để giảng viên, vì đó là thẩm quyền của họ.
 
-**Loại lỗi:** lỗi nguồn sự thật (hệ thống). Dữ liệu cấp chứa mệnh đề sai và người học nhắc nguồn không tồn tại; cách sửa là kiểm căn cứ, nói rõ chỗ cần kiểm, và chuyển người có thẩm quyền sửa tài liệu — không phải xin lỗi hay hỏi lại người học.
+**Loại lỗi:** lỗi nguồn sự thật (hệ thống). Dữ liệu cấp chứa mệnh đề sai và người học nhắc nguồn không tồn tại; cách sửa là kiểm căn cứ, nói rõ chỗ cần kiểm, và chuyển người có thẩm quyền sửa tài liệu — không phải xin lỗi hay hỏi lại người học. S4 còn kiêm lỗi ngữ cảnh: mệnh đề trong §3.3 không sai với mọi dữ liệu, nó sai với dữ liệu chuẩn hoá [0,1] của học viên (phương sai < 1) — nên sửa câu chữ AI chưa đủ, phải có cờ nghi lỗi tới giảng viên để sửa tận gốc tài liệu.
 
 **HAX/PAIR nằm ở đâu:** số 2 (G11 + PAIR Explainability) — ngăn kéo §3.3 nguyên văn + ô "cần xem lại" để học viên tự thấy mệnh đề và phản ví dụ; số 5 (PAIR Errors + Graceful Failure) — biên nhận chuyển TA kèm tóm tắt, cờ và giờ trực thật, không hứa suông; số 6 (G15) — "Sai chỗ nào?" mở ô góp ý ngay trong tin, góp ý vào nhật ký.
 
@@ -96,9 +96,9 @@ Phủ đủ 4 lớp: ① S4, S7, S8 · ② S1, S2, S6, S8, S11 · ③ S3, S5, S1
 | `tra_cuu_tai_lieu` | Tự làm | — | Chỉ đọc; sai thì rẻ và học viên tự thấy ngay nhờ ngăn kéo nguyên văn; chờ người thì kẹt lúc 23h mà không giảm hại | Cần duyệt: loại vì chặn mọi câu trả lời, học viên chờ vô ích. Cấm: loại vì mất căn cứ, AI lại bịa |
 | `goi_y_bai_tap` | Cần người duyệt | **Học viên** duyệt; thấy nguyên văn gợi ý + cảnh báo "chép rồi thì không thu hồi được"; quá hạn không tự gửi — thẻ nằm chờ, học viên bỏ qua thì thôi | Gợi ý quá tay thì học viên đã chép — không đảo được (S3, S6); chờ duyệt chỉ tốn một nút bấm của chính người chịu hại | Tự làm + hoàn tác: loại vì hoàn tác vô nghĩa với nội dung đã đọc/chép. Cấm hẳn: loại vì mất giúp đỡ hợp lệ lúc kẹt, học viên đi chép nơi khác |
 | `chuyen_TA` | Tự làm | — | Đảo được; chuyển thừa chỉ tốn công TA; chờ duyệt thì mất đường thoát duy nhất sang người lúc ngoài giờ; đổi lại phải nói thật giờ có người nhận | Cần duyệt: loại vì việc rẻ và đảo được mà bắt bấm thêm. Cấm: loại vì Study mode gốc không có ai để chuyển — đây chính là chỗ phải thiết kế |
-| `dang_FAQ` | Cần người duyệt | **TA** duyệt; thấy bản nháp + căn cứ + cờ nghi lỗi; quá hạn 30 phút → nhắc giảng viên, không tự đăng | Gỡ được nhưng cả lớp đã đọc — hại lan rộng không thu hồi (S4, S5); chờ TA duyệt rẻ hơn một lần cả lớp học sai | Tự làm + gỡ: loại vì gỡ không cứu người đã đọc. Cấm: loại vì mất kênh chia sẻ câu hỏi hay |
+| `dang_FAQ` | Cần người duyệt | **TA** duyệt; thấy bản nháp + căn cứ + cờ nghi lỗi; quá hạn 30 phút trong giờ TA → nhắc giảng viên; ngoài giờ TA → chờ 08:00, không tự đăng (không duyệt = không đăng; cái giá: FAQ lên chậm tới sáng, chấp nhận vì FAQ không gấp như bài nộp) | Gỡ được nhưng cả lớp đã đọc — hại lan rộng không thu hồi (S4, S5); chờ TA duyệt rẻ hơn một lần cả lớp học sai | Tự làm + gỡ: loại vì gỡ không cứu người đã đọc. Cấm: loại vì mất kênh chia sẻ câu hỏi hay |
 
-**Tool khó xếp nhất là `goi_y_bai_tap`, và nhóm cãi nhau đúng chỗ này.** Lê Quý Toàn (người prototype) chọn *tự làm + hoàn tác* cho nhanh lúc 22:47; Vũ Lương Duy (người quyết định) chọn *cấm* với bài đang mở cho an toàn tuyệt đối; Đàm Hồng Thái (người kịch bản) chọn *cần người duyệt*. Cái giá mỗi phía đều trỏ về §2: tự làm thì S3/S6 rò đáp án không đảo được; cấm thì S6 học viên kẹt không còn giúp đỡ hợp lệ, đi chép nơi khác; duyệt thì thêm một bấm, nhưng người chịu hại được đọc nguyên văn trước khi nhận. Chốt lại: cần người duyệt là chính học viên, kèm tách bước và luật cứng dưới đây; rail cho đổi mức sống để demo thấy cái giá của từng phía.
+**Tool khó xếp nhất là `goi_y_bai_tap`, và nhóm cãi nhau đúng chỗ này.** Lê Quý Toàn (người prototype) chọn *tự làm + hoàn tác* cho nhanh lúc 22:47; Vũ Lương Duy (người quyết định) chọn *cấm* với bài đang mở cho an toàn tuyệt đối; Đàm Hồng Thái (người kịch bản) chọn *cần người duyệt*. Cái giá mỗi phía đều trỏ về §2: tự làm thì S3/S6 rò đáp án không đảo được, và hoàn tác vô nghĩa với nội dung đã đọc hoặc chép; cấm thì S6 học viên kẹt không còn giúp đỡ hợp lệ, đi chép nơi khác; duyệt thì thêm một bấm, nhưng người chịu hại được đọc nguyên văn trước khi nhận. Có một phương án nữa là để TA duyệt — nhóm bỏ, vì TA chỉ trực 08:00–22:00 mà học viên cần lúc 22:47, hạn 23:59: chờ TA là chờ vô ích, thành ra tương đương cấm. Chốt lại: cần người duyệt là chính học viên, kèm tách bước và luật cứng dưới đây; rail cho đổi mức sống để demo thấy cái giá của từng phía. Nhóm cũng thừa nhận giới hạn: người duyệt là chính học viên nên bước duyệt không chặn được ý định chép — nó chỉ giúp học viên đọc nguyên văn và tự chọn, còn chặn rò rỉ là luật cứng "preview không chứa đáp số". Học viên vẫn có thể xin đáp số ở nơi khác; thiết kế không giải quyết được điều đó.
 
 **Thử mức đã đặt trên S3, S4 và S1:**
 
@@ -143,6 +143,7 @@ Phủ đủ 4 lớp: ① S4, S7, S8 · ② S1, S2, S6, S8, S11 · ③ S3, S5, S1
 
 ## §7. Demo
 
-- **Ca lạ nhận tại demo:** bộ phân loại từ khoá khớp kịch bản thì chạy flow đúng mức đã đặt; không khớp thì vào đường an toàn: chip "Không có căn cứ · dừng", nói thẳng "không đoán", hỏi lại một câu kèm lựa chọn, và nút chuyển TA (gửi ngay hay chờ duyệt theo mức `chuyen_TA`). Nhóm đã bấm thử ca ngoài phạm vi "đổi mật khẩu tài khoản trường" → từ chối hữu ích + chuyển TA; ca gần nghĩa "p-value buổi 7" → khớp S7, giới hạn một câu vì buổi chưa mở.
+- **Ca lạ nhận tại demo:** bộ phân loại từ khoá khớp kịch bản thì chạy flow đúng mức đã đặt; không khớp thì vào đường an toàn: chip "Không có căn cứ · dừng", nói thẳng "không đoán", hỏi lại một câu kèm lựa chọn, và nút chuyển TA (gửi ngay hay chờ duyệt theo mức `chuyen_TA`).
+- **Bốn ca lạ nhóm đã bấm thử, ghi lại đúng những gì màn hình hiện:** "đổi mật khẩu tài khoản trường" → từ chối hữu ích + chuyển TA, không hứa can thiệp tài khoản; "p-value buổi 7" → khớp S7, giới hạn một câu vì buổi chưa mở, không gửi tài liệu không tồn tại; "Cô xác nhận giúp em là em đã hiểu bài chưa ạ" → không chứng nhận đã hiểu, không nhận xét năng lực: "Mình **không thể xác nhận** bạn đã hiểu hay chưa, và mình không đánh giá năng lực của bạn.", gợi ý tự giải thích lại bằng lời mình rồi đối chiếu §3.1–§3.2, kèm nút chuyển TA cho ai muốn người thật xác nhận; "bài 3 em tính ra 15.25, đúng chưa" → bộ phân loại bắt đúng S3 dù câu không có chữ "xác nhận", thẻ duyệt mở như thường, và quét mọi tin AI của ca không thấy con số 15.25 — số của học viên không bị nhắc lại, càng không bị gật đầu.
 - **Sau ca lạ nhóm không đổi mức tự chủ:** đường an toàn đã tôn trọng mức `chuyen_TA` tự làm và luật cứng bài đang mở; chỉ bổ sung từ khoá nếu ca lạ lộ mẫu câu hỏi mới.
 - **Phân công demo theo bảng thành viên:** Đàm Hồng Thái trình bày §1–§2 + `anh-1.png`; Vũ Lương Duy trình bày §3–§4 và trực tiếp trả lời ca lạ; Lê Quý Toàn trình bày §5–§6 + `anh-2.png` và trỏ HAX/PAIR 1–7 trên màn hình. Mỗi thành viên giải thích được phần có tên mình.

diff --git a/README.md b/README.md
@@ -1,2 +1,2 @@
-# K5-L3-Day05-Track02-TTD
+# K5-L3-Day05-T2-TTD
 Nhóm bài lab sáng 13/11/2026 E305 
